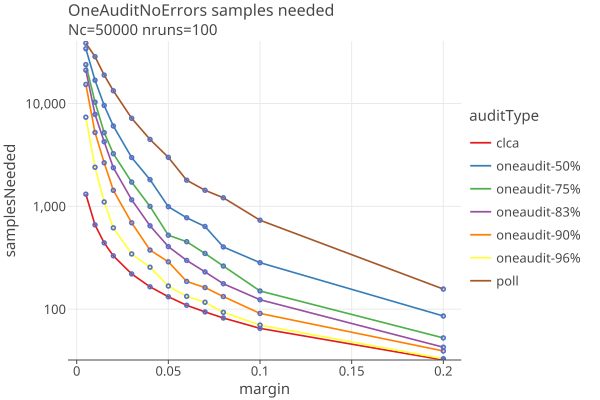
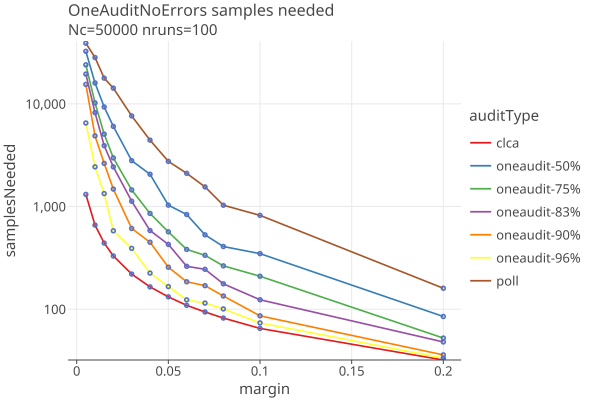
update OneAudit plots; modest improvement with new algorithms at low margins.

diff --git a/docs/plots2/oneaudit/OneAuditNoErrors/OneAuditNoErrorsLogLinear.html b/docs/plots2/oneaudit/OneAuditNoErrors/OneAuditNoErrorsLogLinear.html
@@ -5,7 +5,7 @@
        &lt;script type=&quot;text/javascript&quot; data-lets-plot-script=&quot;library&quot; src=&quot;https://cdn.jsdelivr.net/gh/JetBrains/lets-plot@v4.7.3/js-package/distr/lets-plot.min.js&quot;>&lt;/script>
    &lt;/head>
    &lt;body>
-          &lt;div id=&quot;JoNQFq&quot;>&lt;/div>
+          &lt;div id=&quot;CmcYuU&quot;>&lt;/div>
    &lt;script type=&quot;text/javascript&quot; data-lets-plot-script=&quot;plot&quot;>
    
    (function() {
@@ -30,7 +30,7 @@
        };
    }
    
-   const containerDiv = document.getElementById(&quot;JoNQFq&quot;);
+   const containerDiv = document.getElementById(&quot;CmcYuU&quot;);
    let fig = null;
    
    function renderPlot() {
@@ -74,7 +74,7 @@
 &quot;data&quot;:{
 &quot;&amp;merged_groups&quot;:[&quot;clca&quot;,&quot;clca&quot;,&quot;clca&quot;,&quot;clca&quot;,&quot;clca&quot;,&quot;clca&quot;,&quot;clca&quot;,&quot;clca&quot;,&quot;clca&quot;,&quot;clca&quot;,&quot;clca&quot;,&quot;clca&quot;,&quot;oneaudit-50%&quot;,&quot;oneaudit-50%&quot;,&quot;oneaudit-50%&quot;,&quot;oneaudit-50%&quot;,&quot;oneaudit-50%&quot;,&quot;oneaudit-50%&quot;,&quot;oneaudit-50%&quot;,&quot;oneaudit-50%&quot;,&quot;oneaudit-50%&quot;,&quot;oneaudit-50%&quot;,&quot;oneaudit-50%&quot;,&quot;oneaudit-50%&quot;,&quot;oneaudit-75%&quot;,&quot;oneaudit-75%&quot;,&quot;oneaudit-75%&quot;,&quot;oneaudit-75%&quot;,&quot;oneaudit-75%&quot;,&quot;oneaudit-75%&quot;,&quot;oneaudit-75%&quot;,&quot;oneaudit-75%&quot;,&quot;oneaudit-75%&quot;,&quot;oneaudit-75%&quot;,&quot;oneaudit-75%&quot;,&quot;oneaudit-75%&quot;,&quot;oneaudit-83%&quot;,&quot;oneaudit-83%&quot;,&quot;oneaudit-83%&quot;,&quot;oneaudit-83%&quot;,&quot;oneaudit-83%&quot;,&quot;oneaudit-83%&quot;,&quot;oneaudit-83%&quot;,&quot;oneaudit-83%&quot;,&quot;oneaudit-83%&quot;,&quot;oneaudit-83%&quot;,&quot;oneaudit-83%&quot;,&quot;oneaudit-83%&quot;,&quot;oneaudit-90%&quot;,&quot;oneaudit-90%&quot;,&quot;oneaudit-90%&quot;,&quot;oneaudit-90%&quot;,&quot;oneaudit-90%&quot;,&quot;oneaudit-90%&quot;,&quot;oneaudit-90%&quot;,&quot;oneaudit-90%&quot;,&quot;oneaudit-90%&quot;,&quot;oneaudit-90%&quot;,&quot;oneaudit-90%&quot;,&quot;oneaudit-90%&quot;,&quot;oneaudit-96%&quot;,&quot;oneaudit-96%&quot;,&quot;oneaudit-96%&quot;,&quot;oneaudit-96%&quot;,&quot;oneaudit-96%&quot;,&quot;oneaudit-96%&quot;,&quot;oneaudit-96%&quot;,&quot;oneaudit-96%&quot;,&quot;oneaudit-96%&quot;,&quot;oneaudit-96%&quot;,&quot;oneaudit-96%&quot;,&quot;oneaudit-96%&quot;,&quot;poll&quot;,&quot;poll&quot;,&quot;poll&quot;,&quot;poll&quot;,&quot;poll&quot;,&quot;poll&quot;,&quot;poll&quot;,&quot;poll&quot;,&quot;poll&quot;,&quot;poll&quot;,&quot;poll&quot;,&quot;poll&quot;],
 &quot;margin&quot;:[0.004999999999999893,0.010000000000000009,0.014999999999999902,0.020000000000000018,0.030000000000000027,0.040000000000000036,0.050000000000000044,0.06000000000000005,0.07000000000000006,0.08000000000000007,0.10000000000000009,0.19999999999999996,0.004999999999999893,0.010000000000000009,0.014999999999999902,0.020000000000000018,0.030000000000000027,0.040000000000000036,0.050000000000000044,0.06000000000000005,0.07000000000000006,0.08000000000000007,0.10000000000000009,0.19999999999999996,0.004999999999999893,0.010000000000000009,0.014999999999999902,0.020000000000000018,0.030000000000000027,0.040000000000000036,0.050000000000000044,0.06000000000000005,0.07000000000000006,0.08000000000000007,0.10000000000000009,0.19999999999999996,0.004999999999999893,0.010000000000000009,0.014999999999999902,0.020000000000000018,0.030000000000000027,0.040000000000000036,0.050000000000000044,0.06000000000000005,0.07000000000000006,0.08000000000000007,0.10000000000000009,0.19999999999999996,0.004999999999999893,0.010000000000000009,0.014999999999999902,0.020000000000000018,0.030000000000000027,0.040000000000000036,0.050000000000000044,0.06000000000000005,0.07000000000000006,0.08000000000000007,0.10000000000000009,0.19999999999999996,0.004999999999999893,0.010000000000000009,0.014999999999999902,0.020000000000000018,0.030000000000000027,0.040000000000000036,0.050000000000000044,0.06000000000000005,0.07000000000000006,0.08000000000000007,0.10000000000000009,0.19999999999999996,0.004999999999999893,0.010000000000000009,0.014999999999999902,0.020000000000000018,0.030000000000000027,0.040000000000000036,0.050000000000000044,0.06000000000000005,0.07000000000000006,0.08000000000000007,0.10000000000000009,0.19999999999999996],
-&quot;samplesNeeded&quot;:[1313.0,660.0,441.0,330.0,220.0,165.0,132.0,109.0,94.0,82.0,65.0,32.0,34153.409999999996,16853.339999999997,9580.760000000002,6046.659999999999,2983.34,1818.9099999999999,991.5800000000002,774.2399999999997,636.82,402.5900000000001,283.17999999999995,85.73999999999997,23927.87,10321.810000000005,5213.64,3252.549999999999,1721.0800000000004,998.0600000000002,523.6200000000002,452.8399999999999,347.94999999999993,262.58,150.22000000000006,52.49000000000002,21117.6,7842.080000000003,4249.920000000002,2376.0699999999993,1158.4099999999999,646.7399999999999,405.76000000000005,297.93000000000006,230.29000000000008,176.70000000000007,123.44999999999999,42.620000000000005,15343.169999999998,5231.610000000001,2652.85,1431.3199999999997,691.9599999999999,375.5799999999999,288.6600000000001,185.98999999999995,162.07999999999996,132.56999999999994,90.83999999999999,39.15999999999999,7361.719999999999,2399.749999999999,1103.9,617.9700000000001,344.1600000000001,255.64000000000001,167.76000000000005,133.21,116.64999999999996,93.05000000000004,69.97999999999998,32.919999999999995,38668.36,28586.670000000002,18921.59,13317.140000000001,7189.77,4478.400000000001,2995.660000000001,1796.07,1433.7000000000003,1211.7099999999996,732.7699999999999,156.77],
+&quot;samplesNeeded&quot;:[1313.0,660.0,441.0,330.0,220.0,165.0,132.0,109.0,94.0,82.0,65.0,32.0,32549.609999999986,15995.7,9338.890000000003,6039.900000000005,2801.140000000001,2064.5500000000006,1031.7200000000005,836.71,530.2699999999999,408.0,347.86999999999995,84.92,24026.020000000015,10242.429999999995,5073.289999999999,2978.8399999999992,1451.6199999999997,856.6999999999999,567.4399999999998,382.32,335.04999999999984,264.5000000000002,209.57000000000002,52.36,19530.429999999993,8216.22,3918.4399999999996,2434.1599999999994,1127.0399999999995,584.27,427.9700000000001,261.77,244.72000000000014,176.7999999999999,123.60999999999997,47.96999999999998,15488.85,4884.24,2634.3300000000004,1479.9999999999995,611.9700000000001,449.1499999999999,256.46999999999997,185.01000000000008,169.61,134.5100000000001,86.16000000000001,35.86999999999999,6514.659999999999,2436.8400000000006,1337.9100000000003,580.6799999999998,391.5199999999999,224.82999999999998,166.15999999999994,123.27999999999999,114.73,100.64000000000001,73.55999999999997,33.34000000000001,39055.42,28309.479999999996,17822.240000000013,14252.729999999996,7640.020000000002,4436.62,2756.3800000000006,2108.689999999999,1554.4399999999998,1030.6600000000003,820.85,159.98],
 &quot;auditType&quot;:[&quot;clca&quot;,&quot;clca&quot;,&quot;clca&quot;,&quot;clca&quot;,&quot;clca&quot;,&quot;clca&quot;,&quot;clca&quot;,&quot;clca&quot;,&quot;clca&quot;,&quot;clca&quot;,&quot;clca&quot;,&quot;clca&quot;,&quot;oneaudit-50%&quot;,&quot;oneaudit-50%&quot;,&quot;oneaudit-50%&quot;,&quot;oneaudit-50%&quot;,&quot;oneaudit-50%&quot;,&quot;oneaudit-50%&quot;,&quot;oneaudit-50%&quot;,&quot;oneaudit-50%&quot;,&quot;oneaudit-50%&quot;,&quot;oneaudit-50%&quot;,&quot;oneaudit-50%&quot;,&quot;oneaudit-50%&quot;,&quot;oneaudit-75%&quot;,&quot;oneaudit-75%&quot;,&quot;oneaudit-75%&quot;,&quot;oneaudit-75%&quot;,&quot;oneaudit-75%&quot;,&quot;oneaudit-75%&quot;,&quot;oneaudit-75%&quot;,&quot;oneaudit-75%&quot;,&quot;oneaudit-75%&quot;,&quot;oneaudit-75%&quot;,&quot;oneaudit-75%&quot;,&quot;oneaudit-75%&quot;,&quot;oneaudit-83%&quot;,&quot;oneaudit-83%&quot;,&quot;oneaudit-83%&quot;,&quot;oneaudit-83%&quot;,&quot;oneaudit-83%&quot;,&quot;oneaudit-83%&quot;,&quot;oneaudit-83%&quot;,&quot;oneaudit-83%&quot;,&quot;oneaudit-83%&quot;,&quot;oneaudit-83%&quot;,&quot;oneaudit-83%&quot;,&quot;oneaudit-83%&quot;,&quot;oneaudit-90%&quot;,&quot;oneaudit-90%&quot;,&quot;oneaudit-90%&quot;,&quot;oneaudit-90%&quot;,&quot;oneaudit-90%&quot;,&quot;oneaudit-90%&quot;,&quot;oneaudit-90%&quot;,&quot;oneaudit-90%&quot;,&quot;oneaudit-90%&quot;,&quot;oneaudit-90%&quot;,&quot;oneaudit-90%&quot;,&quot;oneaudit-90%&quot;,&quot;oneaudit-96%&quot;,&quot;oneaudit-96%&quot;,&quot;oneaudit-96%&quot;,&quot;oneaudit-96%&quot;,&quot;oneaudit-96%&quot;,&quot;oneaudit-96%&quot;,&quot;oneaudit-96%&quot;,&quot;oneaudit-96%&quot;,&quot;oneaudit-96%&quot;,&quot;oneaudit-96%&quot;,&quot;oneaudit-96%&quot;,&quot;oneaudit-96%&quot;,&quot;poll&quot;,&quot;poll&quot;,&quot;poll&quot;,&quot;poll&quot;,&quot;poll&quot;,&quot;poll&quot;,&quot;poll&quot;,&quot;poll&quot;,&quot;poll&quot;,&quot;poll&quot;,&quot;poll&quot;,&quot;poll&quot;]
 },
 &quot;sampling&quot;:&quot;none&quot;,
@@ -104,9 +104,9 @@
 },
 &quot;stat&quot;:&quot;identity&quot;,
 &quot;data&quot;:{
-&quot;margin&quot;:[0.004999999999999893,0.010000000000000009,0.014999999999999902,0.020000000000000018,0.030000000000000027,0.040000000000000036,0.050000000000000044,0.06000000000000005,0.07000000000000006,0.08000000000000007,0.10000000000000009,0.19999999999999996,0.004999999999999893,0.010000000000000009,0.014999999999999902,0.020000000000000018,0.030000000000000027,0.040000000000000036,0.050000000000000044,0.06000000000000005,0.07000000000000006,0.08000000000000007,0.10000000000000009,0.19999999999999996,0.004999999999999893,0.010000000000000009,0.014999999999999902,0.020000000000000018,0.030000000000000027,0.040000000000000036,0.050000000000000044,0.06000000000000005,0.07000000000000006,0.08000000000000007,0.10000000000000009,0.19999999999999996,0.004999999999999893,0.010000000000000009,0.014999999999999902,0.020000000000000018,0.030000000000000027,0.040000000000000036,0.050000000000000044,0.06000000000000005,0.07000000000000006,0.08000000000000007,0.10000000000000009,0.19999999999999996,0.004999999999999893,0.010000000000000009,0.014999999999999902,0.020000000000000018,0.030000000000000027,0.040000000000000036,0.050000000000000044,0.06000000000000005,0.07000000000000006,0.08000000000000007,0.10000000000000009,0.19999999999999996,0.004999999999999893,0.010000000000000009,0.014999999999999902,0.020000000000000018,0.030000000000000027,0.040000000000000036,0.050000000000000044,0.06000000000000005,0.07000000000000006,0.08000000000000007,0.10000000000000009,0.19999999999999996,0.004999999999999893,0.010000000000000009,0.014999999999999902,0.020000000000000018,0.030000000000000027,0.040000000000000036,0.050000000000000044,0.06000000000000005,0.07000000000000006,0.08000000000000007,0.10000000000000009,0.19999999999999996],
 &quot;&amp;merged_groups&quot;:[&quot;clca&quot;,&quot;clca&quot;,&quot;clca&quot;,&quot;clca&quot;,&quot;clca&quot;,&quot;clca&quot;,&quot;clca&quot;,&quot;clca&quot;,&quot;clca&quot;,&quot;clca&quot;,&quot;clca&quot;,&quot;clca&quot;,&quot;oneaudit-50%&quot;,&quot;oneaudit-50%&quot;,&quot;oneaudit-50%&quot;,&quot;oneaudit-50%&quot;,&quot;oneaudit-50%&quot;,&quot;oneaudit-50%&quot;,&quot;oneaudit-50%&quot;,&quot;oneaudit-50%&quot;,&quot;oneaudit-50%&quot;,&quot;oneaudit-50%&quot;,&quot;oneaudit-50%&quot;,&quot;oneaudit-50%&quot;,&quot;oneaudit-75%&quot;,&quot;oneaudit-75%&quot;,&quot;oneaudit-75%&quot;,&quot;oneaudit-75%&quot;,&quot;oneaudit-75%&quot;,&quot;oneaudit-75%&quot;,&quot;oneaudit-75%&quot;,&quot;oneaudit-75%&quot;,&quot;oneaudit-75%&quot;,&quot;oneaudit-75%&quot;,&quot;oneaudit-75%&quot;,&quot;oneaudit-75%&quot;,&quot;oneaudit-83%&quot;,&quot;oneaudit-83%&quot;,&quot;oneaudit-83%&quot;,&quot;oneaudit-83%&quot;,&quot;oneaudit-83%&quot;,&quot;oneaudit-83%&quot;,&quot;oneaudit-83%&quot;,&quot;oneaudit-83%&quot;,&quot;oneaudit-83%&quot;,&quot;oneaudit-83%&quot;,&quot;oneaudit-83%&quot;,&quot;oneaudit-83%&quot;,&quot;oneaudit-90%&quot;,&quot;oneaudit-90%&quot;,&quot;oneaudit-90%&quot;,&quot;oneaudit-90%&quot;,&quot;oneaudit-90%&quot;,&quot;oneaudit-90%&quot;,&quot;oneaudit-90%&quot;,&quot;oneaudit-90%&quot;,&quot;oneaudit-90%&quot;,&quot;oneaudit-90%&quot;,&quot;oneaudit-90%&quot;,&quot;oneaudit-90%&quot;,&quot;oneaudit-96%&quot;,&quot;oneaudit-96%&quot;,&quot;oneaudit-96%&quot;,&quot;oneaudit-96%&quot;,&quot;oneaudit-96%&quot;,&quot;oneaudit-96%&quot;,&quot;oneaudit-96%&quot;,&quot;oneaudit-96%&quot;,&quot;oneaudit-96%&quot;,&quot;oneaudit-96%&quot;,&quot;oneaudit-96%&quot;,&quot;oneaudit-96%&quot;,&quot;poll&quot;,&quot;poll&quot;,&quot;poll&quot;,&quot;poll&quot;,&quot;poll&quot;,&quot;poll&quot;,&quot;poll&quot;,&quot;poll&quot;,&quot;poll&quot;,&quot;poll&quot;,&quot;poll&quot;,&quot;poll&quot;],
-&quot;samplesNeeded&quot;:[1313.0,660.0,441.0,330.0,220.0,165.0,132.0,109.0,94.0,82.0,65.0,32.0,34153.409999999996,16853.339999999997,9580.760000000002,6046.659999999999,2983.34,1818.9099999999999,991.5800000000002,774.2399999999997,636.82,402.5900000000001,283.17999999999995,85.73999999999997,23927.87,10321.810000000005,5213.64,3252.549999999999,1721.0800000000004,998.0600000000002,523.6200000000002,452.8399999999999,347.94999999999993,262.58,150.22000000000006,52.49000000000002,21117.6,7842.080000000003,4249.920000000002,2376.0699999999993,1158.4099999999999,646.7399999999999,405.76000000000005,297.93000000000006,230.29000000000008,176.70000000000007,123.44999999999999,42.620000000000005,15343.169999999998,5231.610000000001,2652.85,1431.3199999999997,691.9599999999999,375.5799999999999,288.6600000000001,185.98999999999995,162.07999999999996,132.56999999999994,90.83999999999999,39.15999999999999,7361.719999999999,2399.749999999999,1103.9,617.9700000000001,344.1600000000001,255.64000000000001,167.76000000000005,133.21,116.64999999999996,93.05000000000004,69.97999999999998,32.919999999999995,38668.36,28586.670000000002,18921.59,13317.140000000001,7189.77,4478.400000000001,2995.660000000001,1796.07,1433.7000000000003,1211.7099999999996,732.7699999999999,156.77],
+&quot;margin&quot;:[0.004999999999999893,0.010000000000000009,0.014999999999999902,0.020000000000000018,0.030000000000000027,0.040000000000000036,0.050000000000000044,0.06000000000000005,0.07000000000000006,0.08000000000000007,0.10000000000000009,0.19999999999999996,0.004999999999999893,0.010000000000000009,0.014999999999999902,0.020000000000000018,0.030000000000000027,0.040000000000000036,0.050000000000000044,0.06000000000000005,0.07000000000000006,0.08000000000000007,0.10000000000000009,0.19999999999999996,0.004999999999999893,0.010000000000000009,0.014999999999999902,0.020000000000000018,0.030000000000000027,0.040000000000000036,0.050000000000000044,0.06000000000000005,0.07000000000000006,0.08000000000000007,0.10000000000000009,0.19999999999999996,0.004999999999999893,0.010000000000000009,0.014999999999999902,0.020000000000000018,0.030000000000000027,0.040000000000000036,0.050000000000000044,0.06000000000000005,0.07000000000000006,0.08000000000000007,0.10000000000000009,0.19999999999999996,0.004999999999999893,0.010000000000000009,0.014999999999999902,0.020000000000000018,0.030000000000000027,0.040000000000000036,0.050000000000000044,0.06000000000000005,0.07000000000000006,0.08000000000000007,0.10000000000000009,0.19999999999999996,0.004999999999999893,0.010000000000000009,0.014999999999999902,0.020000000000000018,0.030000000000000027,0.040000000000000036,0.050000000000000044,0.06000000000000005,0.07000000000000006,0.08000000000000007,0.10000000000000009,0.19999999999999996,0.004999999999999893,0.010000000000000009,0.014999999999999902,0.020000000000000018,0.030000000000000027,0.040000000000000036,0.050000000000000044,0.06000000000000005,0.07000000000000006,0.08000000000000007,0.10000000000000009,0.19999999999999996],
+&quot;samplesNeeded&quot;:[1313.0,660.0,441.0,330.0,220.0,165.0,132.0,109.0,94.0,82.0,65.0,32.0,32549.609999999986,15995.7,9338.890000000003,6039.900000000005,2801.140000000001,2064.5500000000006,1031.7200000000005,836.71,530.2699999999999,408.0,347.86999999999995,84.92,24026.020000000015,10242.429999999995,5073.289999999999,2978.8399999999992,1451.6199999999997,856.6999999999999,567.4399999999998,382.32,335.04999999999984,264.5000000000002,209.57000000000002,52.36,19530.429999999993,8216.22,3918.4399999999996,2434.1599999999994,1127.0399999999995,584.27,427.9700000000001,261.77,244.72000000000014,176.7999999999999,123.60999999999997,47.96999999999998,15488.85,4884.24,2634.3300000000004,1479.9999999999995,611.9700000000001,449.1499999999999,256.46999999999997,185.01000000000008,169.61,134.5100000000001,86.16000000000001,35.86999999999999,6514.659999999999,2436.8400000000006,1337.9100000000003,580.6799999999998,391.5199999999999,224.82999999999998,166.15999999999994,123.27999999999999,114.73,100.64000000000001,73.55999999999997,33.34000000000001,39055.42,28309.479999999996,17822.240000000013,14252.729999999996,7640.020000000002,4436.62,2756.3800000000006,2108.689999999999,1554.4399999999998,1030.6600000000003,820.85,159.98],
 &quot;auditType&quot;:[&quot;clca&quot;,&quot;clca&quot;,&quot;clca&quot;,&quot;clca&quot;,&quot;clca&quot;,&quot;clca&quot;,&quot;clca&quot;,&quot;clca&quot;,&quot;clca&quot;,&quot;clca&quot;,&quot;clca&quot;,&quot;clca&quot;,&quot;oneaudit-50%&quot;,&quot;oneaudit-50%&quot;,&quot;oneaudit-50%&quot;,&quot;oneaudit-50%&quot;,&quot;oneaudit-50%&quot;,&quot;oneaudit-50%&quot;,&quot;oneaudit-50%&quot;,&quot;oneaudit-50%&quot;,&quot;oneaudit-50%&quot;,&quot;oneaudit-50%&quot;,&quot;oneaudit-50%&quot;,&quot;oneaudit-50%&quot;,&quot;oneaudit-75%&quot;,&quot;oneaudit-75%&quot;,&quot;oneaudit-75%&quot;,&quot;oneaudit-75%&quot;,&quot;oneaudit-75%&quot;,&quot;oneaudit-75%&quot;,&quot;oneaudit-75%&quot;,&quot;oneaudit-75%&quot;,&quot;oneaudit-75%&quot;,&quot;oneaudit-75%&quot;,&quot;oneaudit-75%&quot;,&quot;oneaudit-75%&quot;,&quot;oneaudit-83%&quot;,&quot;oneaudit-83%&quot;,&quot;oneaudit-83%&quot;,&quot;oneaudit-83%&quot;,&quot;oneaudit-83%&quot;,&quot;oneaudit-83%&quot;,&quot;oneaudit-83%&quot;,&quot;oneaudit-83%&quot;,&quot;oneaudit-83%&quot;,&quot;oneaudit-83%&quot;,&quot;oneaudit-83%&quot;,&quot;oneaudit-83%&quot;,&quot;oneaudit-90%&quot;,&quot;oneaudit-90%&quot;,&quot;oneaudit-90%&quot;,&quot;oneaudit-90%&quot;,&quot;oneaudit-90%&quot;,&quot;oneaudit-90%&quot;,&quot;oneaudit-90%&quot;,&quot;oneaudit-90%&quot;,&quot;oneaudit-90%&quot;,&quot;oneaudit-90%&quot;,&quot;oneaudit-90%&quot;,&quot;oneaudit-90%&quot;,&quot;oneaudit-96%&quot;,&quot;oneaudit-96%&quot;,&quot;oneaudit-96%&quot;,&quot;oneaudit-96%&quot;,&quot;oneaudit-96%&quot;,&quot;oneaudit-96%&quot;,&quot;oneaudit-96%&quot;,&quot;oneaudit-96%&quot;,&quot;oneaudit-96%&quot;,&quot;oneaudit-96%&quot;,&quot;oneaudit-96%&quot;,&quot;oneaudit-96%&quot;,&quot;poll&quot;,&quot;poll&quot;,&quot;poll&quot;,&quot;poll&quot;,&quot;poll&quot;,&quot;poll&quot;,&quot;poll&quot;,&quot;poll&quot;,&quot;poll&quot;,&quot;poll&quot;,&quot;poll&quot;,&quot;poll&quot;]
 },
 &quot;size&quot;:1.0,
@@ -140,7 +140,7 @@
 &quot;disable_splitting&quot;:true
 }
 }],
-&quot;spec_id&quot;:&quot;6&quot;
+&quot;spec_id&quot;:&quot;3&quot;
 };
            fig = LetsPlot.buildPlotFromProcessedSpecs(plotSpec, containerDiv, sizing);
        } else {

diff --git a/docs/plots2/oneaudit/OneAuditWithFuzz/OneAuditWithFuzzLinear.html b/docs/plots2/oneaudit/OneAuditWithFuzz/OneAuditWithFuzzLinear.html
@@ -5,7 +5,7 @@
        &lt;script type=&quot;text/javascript&quot; data-lets-plot-script=&quot;library&quot; src=&quot;https://cdn.jsdelivr.net/gh/JetBrains/lets-plot@v4.7.3/js-package/distr/lets-plot.min.js&quot;>&lt;/script>
    &lt;/head>
    &lt;body>
-          &lt;div id=&quot;b5K46q&quot;>&lt;/div>
+          &lt;div id=&quot;9hPlIq&quot;>&lt;/div>
    &lt;script type=&quot;text/javascript&quot; data-lets-plot-script=&quot;plot&quot;>
    
    (function() {
@@ -30,7 +30,7 @@
        };
    }
    
-   const containerDiv = document.getElementById(&quot;b5K46q&quot;);
+   const containerDiv = document.getElementById(&quot;9hPlIq&quot;);
    let fig = null;
    
    function renderPlot() {
@@ -38,7 +38,7 @@
            const plotSpec = {
 &quot;ggtitle&quot;:{
 &quot;text&quot;:&quot;OneAuditWithFuzz samples needed&quot;,
-&quot;subtitle&quot;:&quot;Nc=50000 nruns=100 cvrPercent=90.0%&quot;
+&quot;subtitle&quot;:&quot;Nc=50000 nruns=200 cvrPercent=90.0%&quot;
 },
 &quot;mapping&quot;:{
 },
@@ -78,10 +78,10 @@
 &quot;stat&quot;:&quot;identity&quot;,
 &quot;data&quot;:{
 &quot;fuzzPct&quot;:[0.0,0.001,0.0025,0.005,0.0075,0.01,0.0,0.001,0.0025,0.005,0.0075,0.01,0.0,0.001,0.0025,0.005,0.0075,0.01],
-&quot;&amp;merged_groups&quot;:[&quot;0.01&quot;,&quot;0.01&quot;,&quot;0.01&quot;,&quot;0.01&quot;,&quot;0.01&quot;,&quot;0.01&quot;,&quot;0.02&quot;,&quot;0.02&quot;,&quot;0.02&quot;,&quot;0.02&quot;,&quot;0.02&quot;,&quot;0.02&quot;,&quot;0.04&quot;,&quot;0.04&quot;,&quot;0.04&quot;,&quot;0.04&quot;,&quot;0.04&quot;,&quot;0.04&quot;],
 &quot;margin&quot;:[&quot;0.01&quot;,&quot;0.01&quot;,&quot;0.01&quot;,&quot;0.01&quot;,&quot;0.01&quot;,&quot;0.01&quot;,&quot;0.02&quot;,&quot;0.02&quot;,&quot;0.02&quot;,&quot;0.02&quot;,&quot;0.02&quot;,&quot;0.02&quot;,&quot;0.04&quot;,&quot;0.04&quot;,&quot;0.04&quot;,&quot;0.04&quot;,&quot;0.04&quot;,&quot;0.04&quot;],
-&quot;ylowers&quot;:[1386.7240982556036,1641.2161114692085,1901.4307329644435,2120.6190102243745,2176.226736627307,2140.7950304933456,501.468759925267,370.1394039598115,258.36704693096794,298.2985323579512,453.1926629011625,239.79342753552783,61.25007569275209,93.18125075038608,139.35590682393052,106.05104302194962,100.12881252857989,62.7251101237581],
-&quot;yuppers&quot;:[8967.115901744393,8168.363888530794,10025.289267035554,9379.840989775625,11011.353263372694,12212.664969506655,2803.8312400747327,2471.3405960401897,2921.1929530690313,3194.101467642049,3130.0073370988375,3110.6865724644717,738.989924307248,661.6387492496143,705.4240931760696,875.4489569780508,892.9911874714196,1044.5748898762417]
+&quot;&amp;merged_groups&quot;:[&quot;0.01&quot;,&quot;0.01&quot;,&quot;0.01&quot;,&quot;0.01&quot;,&quot;0.01&quot;,&quot;0.01&quot;,&quot;0.02&quot;,&quot;0.02&quot;,&quot;0.02&quot;,&quot;0.02&quot;,&quot;0.02&quot;,&quot;0.02&quot;,&quot;0.04&quot;,&quot;0.04&quot;,&quot;0.04&quot;,&quot;0.04&quot;,&quot;0.04&quot;,&quot;0.04&quot;],
+&quot;ylowers&quot;:[1602.2078680885288,1860.8387815182123,2000.8768879587574,1702.099250427244,2415.916549778519,2930.936766120163,379.010943523674,451.646253074945,448.9755172431828,534.175875717111,632.1728129978551,572.253917188963,56.67669618025246,112.36670089433977,114.98163049996947,115.31707122034459,131.16579656636844,136.8513425503213],
+&quot;yuppers&quot;:[8026.56213191147,8569.311218481786,9486.433112041243,9708.26074957276,10735.313450221482,11618.693233879836,2421.6190564763265,2590.4037469250534,2987.6744827568177,2898.894124282889,3359.6871870021423,3641.09608281104,703.0833038197475,859.1632991056599,822.7383695000302,856.2429287796552,880.9142034336321,1036.1086574496776]
 },
 &quot;sampling&quot;:&quot;none&quot;,
 &quot;width&quot;:0.5,
@@ -119,9 +119,9 @@
 &quot;stat&quot;:&quot;identity&quot;,
 &quot;data&quot;:{
 &quot;fuzzPct&quot;:[0.0,0.001,0.0025,0.005,0.0075,0.01,0.0,0.001,0.0025,0.005,0.0075,0.01,0.0,0.001,0.0025,0.005,0.0075,0.01],
-&quot;&amp;merged_groups&quot;:[&quot;0.01&quot;,&quot;0.01&quot;,&quot;0.01&quot;,&quot;0.01&quot;,&quot;0.01&quot;,&quot;0.01&quot;,&quot;0.02&quot;,&quot;0.02&quot;,&quot;0.02&quot;,&quot;0.02&quot;,&quot;0.02&quot;,&quot;0.02&quot;,&quot;0.04&quot;,&quot;0.04&quot;,&quot;0.04&quot;,&quot;0.04&quot;,&quot;0.04&quot;,&quot;0.04&quot;],
 &quot;margin&quot;:[&quot;0.01&quot;,&quot;0.01&quot;,&quot;0.01&quot;,&quot;0.01&quot;,&quot;0.01&quot;,&quot;0.01&quot;,&quot;0.02&quot;,&quot;0.02&quot;,&quot;0.02&quot;,&quot;0.02&quot;,&quot;0.02&quot;,&quot;0.02&quot;,&quot;0.04&quot;,&quot;0.04&quot;,&quot;0.04&quot;,&quot;0.04&quot;,&quot;0.04&quot;,&quot;0.04&quot;],
-&quot;samplesNeeded&quot;:[5176.919999999998,4904.790000000001,5963.359999999999,5750.23,6593.79,7176.7300000000005,1652.6499999999999,1420.7400000000005,1589.7799999999997,1746.2000000000003,1791.6,1675.2399999999998,400.12000000000006,377.4100000000002,422.3900000000001,490.75000000000017,496.5599999999997,553.6499999999999]
+&quot;&amp;merged_groups&quot;:[&quot;0.01&quot;,&quot;0.01&quot;,&quot;0.01&quot;,&quot;0.01&quot;,&quot;0.01&quot;,&quot;0.01&quot;,&quot;0.02&quot;,&quot;0.02&quot;,&quot;0.02&quot;,&quot;0.02&quot;,&quot;0.02&quot;,&quot;0.02&quot;,&quot;0.04&quot;,&quot;0.04&quot;,&quot;0.04&quot;,&quot;0.04&quot;,&quot;0.04&quot;,&quot;0.04&quot;],
+&quot;samplesNeeded&quot;:[4814.384999999999,5215.074999999999,5743.655,5705.180000000002,6575.615000000001,7274.815,1400.3150000000003,1521.0249999999992,1718.3250000000003,1716.535,1995.9299999999987,2106.6750000000015,379.87999999999994,485.7649999999998,468.85999999999984,485.7799999999999,506.0400000000003,586.4799999999994]
 },
 &quot;sampling&quot;:&quot;none&quot;,
 &quot;inherit_aes&quot;:false,
@@ -157,9 +157,9 @@
 &quot;stat&quot;:&quot;identity&quot;,
 &quot;data&quot;:{
 &quot;fuzzPct&quot;:[0.0,0.001,0.0025,0.005,0.0075,0.01,0.0,0.001,0.0025,0.005,0.0075,0.01,0.0,0.001,0.0025,0.005,0.0075,0.01],
-&quot;margin&quot;:[&quot;0.01&quot;,&quot;0.01&quot;,&quot;0.01&quot;,&quot;0.01&quot;,&quot;0.01&quot;,&quot;0.01&quot;,&quot;0.02&quot;,&quot;0.02&quot;,&quot;0.02&quot;,&quot;0.02&quot;,&quot;0.02&quot;,&quot;0.02&quot;,&quot;0.04&quot;,&quot;0.04&quot;,&quot;0.04&quot;,&quot;0.04&quot;,&quot;0.04&quot;,&quot;0.04&quot;],
 &quot;&amp;merged_groups&quot;:[&quot;0.01&quot;,&quot;0.01&quot;,&quot;0.01&quot;,&quot;0.01&quot;,&quot;0.01&quot;,&quot;0.01&quot;,&quot;0.02&quot;,&quot;0.02&quot;,&quot;0.02&quot;,&quot;0.02&quot;,&quot;0.02&quot;,&quot;0.02&quot;,&quot;0.04&quot;,&quot;0.04&quot;,&quot;0.04&quot;,&quot;0.04&quot;,&quot;0.04&quot;,&quot;0.04&quot;],
-&quot;samplesNeeded&quot;:[5176.919999999998,4904.790000000001,5963.359999999999,5750.23,6593.79,7176.7300000000005,1652.6499999999999,1420.7400000000005,1589.7799999999997,1746.2000000000003,1791.6,1675.2399999999998,400.12000000000006,377.4100000000002,422.3900000000001,490.75000000000017,496.5599999999997,553.6499999999999]
+&quot;margin&quot;:[&quot;0.01&quot;,&quot;0.01&quot;,&quot;0.01&quot;,&quot;0.01&quot;,&quot;0.01&quot;,&quot;0.01&quot;,&quot;0.02&quot;,&quot;0.02&quot;,&quot;0.02&quot;,&quot;0.02&quot;,&quot;0.02&quot;,&quot;0.02&quot;,&quot;0.04&quot;,&quot;0.04&quot;,&quot;0.04&quot;,&quot;0.04&quot;,&quot;0.04&quot;,&quot;0.04&quot;],
+&quot;samplesNeeded&quot;:[4814.384999999999,5215.074999999999,5743.655,5705.180000000002,6575.615000000001,7274.815,1400.3150000000003,1521.0249999999992,1718.3250000000003,1716.535,1995.9299999999987,2106.6750000000015,379.87999999999994,485.7649999999998,468.85999999999984,485.7799999999999,506.0400000000003,586.4799999999994]
 },
 &quot;size&quot;:1.0,
 &quot;shape&quot;:1.0,

diff --git a/docs/plots2/oneaudit/OneAuditWithStdDev/OneAuditWithStdDevLinear.html b/docs/plots2/oneaudit/OneAuditWithStdDev/OneAuditWithStdDevLinear.html
@@ -5,7 +5,7 @@
        &lt;script type=&quot;text/javascript&quot; data-lets-plot-script=&quot;library&quot; src=&quot;https://cdn.jsdelivr.net/gh/JetBrains/lets-plot@v4.7.3/js-package/distr/lets-plot.min.js&quot;>&lt;/script>
    &lt;/head>
    &lt;body>
-          &lt;div id=&quot;HDqm2c&quot;>&lt;/div>
+          &lt;div id=&quot;wyeZbH&quot;>&lt;/div>
    &lt;script type=&quot;text/javascript&quot; data-lets-plot-script=&quot;plot&quot;>
    
    (function() {
@@ -30,7 +30,7 @@
        };
    }
    
-   const containerDiv = document.getElementById(&quot;HDqm2c&quot;);
+   const containerDiv = document.getElementById(&quot;wyeZbH&quot;);
    let fig = null;
    
    function renderPlot() {
@@ -77,11 +77,11 @@
 },
 &quot;stat&quot;:&quot;identity&quot;,
 &quot;data&quot;:{
-&quot;margin&quot;:[0.004999999999999893,0.010000000000000009,0.014999999999999902,0.020000000000000018,0.030000000000000027,0.040000000000000036,0.050000000000000044],
 &quot;&amp;merged_groups&quot;:[&quot;oneaudit-90%&quot;,&quot;oneaudit-90%&quot;,&quot;oneaudit-90%&quot;,&quot;oneaudit-90%&quot;,&quot;oneaudit-90%&quot;,&quot;oneaudit-90%&quot;,&quot;oneaudit-90%&quot;],
+&quot;margin&quot;:[0.004999999999999893,0.010000000000000009,0.014999999999999902,0.020000000000000018,0.030000000000000027,0.040000000000000036,0.050000000000000044],
 &quot;legend&quot;:[&quot;oneaudit-90%&quot;,&quot;oneaudit-90%&quot;,&quot;oneaudit-90%&quot;,&quot;oneaudit-90%&quot;,&quot;oneaudit-90%&quot;,&quot;oneaudit-90%&quot;,&quot;oneaudit-90%&quot;],
-&quot;ylowers&quot;:[7969.403774750345,1989.8327598106252,704.0800210229829,466.44520889214505,255.52066096547873,128.93723891434323,103.45821795430729],
-&quot;yuppers&quot;:[23015.216225249653,8142.607240189375,4652.139978977017,2520.734791107856,1228.3393390345216,598.6827610856568,396.3817820456927]
+&quot;ylowers&quot;:[7081.510935647297,1348.276123223914,626.3767295868261,464.25836548880477,164.29802512392985,99.97972512568816,53.884506268531595],
+&quot;yuppers&quot;:[21634.109064352702,9036.523876776086,4784.203270413174,2354.121634511196,1240.7219748760708,689.340274874312,562.8154937314685]
 },
 &quot;sampling&quot;:&quot;none&quot;,
 &quot;width&quot;:0.5,
@@ -120,8 +120,8 @@
 &quot;data&quot;:{
 &quot;&amp;merged_groups&quot;:[&quot;oneaudit-90%&quot;,&quot;oneaudit-90%&quot;,&quot;oneaudit-90%&quot;,&quot;oneaudit-90%&quot;,&quot;oneaudit-90%&quot;,&quot;oneaudit-90%&quot;,&quot;oneaudit-90%&quot;],
 &quot;margin&quot;:[0.004999999999999893,0.010000000000000009,0.014999999999999902,0.020000000000000018,0.030000000000000027,0.040000000000000036,0.050000000000000044],
-&quot;samplesNeeded&quot;:[15492.310000000001,5066.220000000001,2678.11,1493.5900000000006,741.9300000000003,363.81000000000006,249.92000000000002],
-&quot;legend&quot;:[&quot;oneaudit-90%&quot;,&quot;oneaudit-90%&quot;,&quot;oneaudit-90%&quot;,&quot;oneaudit-90%&quot;,&quot;oneaudit-90%&quot;,&quot;oneaudit-90%&quot;,&quot;oneaudit-90%&quot;]
+&quot;legend&quot;:[&quot;oneaudit-90%&quot;,&quot;oneaudit-90%&quot;,&quot;oneaudit-90%&quot;,&quot;oneaudit-90%&quot;,&quot;oneaudit-90%&quot;,&quot;oneaudit-90%&quot;,&quot;oneaudit-90%&quot;],
+&quot;samplesNeeded&quot;:[14357.810000000001,5192.400000000001,2705.290000000001,1409.1900000000007,702.5100000000004,394.6600000000001,308.3500000000001]
 },
 &quot;sampling&quot;:&quot;none&quot;,
 &quot;inherit_aes&quot;:false,
@@ -156,10 +156,10 @@
 },
 &quot;stat&quot;:&quot;identity&quot;,
 &quot;data&quot;:{
-&quot;&amp;merged_groups&quot;:[&quot;oneaudit-90%&quot;,&quot;oneaudit-90%&quot;,&quot;oneaudit-90%&quot;,&quot;oneaudit-90%&quot;,&quot;oneaudit-90%&quot;,&quot;oneaudit-90%&quot;,&quot;oneaudit-90%&quot;],
 &quot;margin&quot;:[0.004999999999999893,0.010000000000000009,0.014999999999999902,0.020000000000000018,0.030000000000000027,0.040000000000000036,0.050000000000000044],
-&quot;legend&quot;:[&quot;oneaudit-90%&quot;,&quot;oneaudit-90%&quot;,&quot;oneaudit-90%&quot;,&quot;oneaudit-90%&quot;,&quot;oneaudit-90%&quot;,&quot;oneaudit-90%&quot;,&quot;oneaudit-90%&quot;],
-&quot;samplesNeeded&quot;:[15492.310000000001,5066.220000000001,2678.11,1493.5900000000006,741.9300000000003,363.81000000000006,249.92000000000002]
+&quot;&amp;merged_groups&quot;:[&quot;oneaudit-90%&quot;,&quot;oneaudit-90%&quot;,&quot;oneaudit-90%&quot;,&quot;oneaudit-90%&quot;,&quot;oneaudit-90%&quot;,&quot;oneaudit-90%&quot;,&quot;oneaudit-90%&quot;],
+&quot;samplesNeeded&quot;:[14357.810000000001,5192.400000000001,2705.290000000001,1409.1900000000007,702.5100000000004,394.6600000000001,308.3500000000001],
+&quot;legend&quot;:[&quot;oneaudit-90%&quot;,&quot;oneaudit-90%&quot;,&quot;oneaudit-90%&quot;,&quot;oneaudit-90%&quot;,&quot;oneaudit-90%&quot;,&quot;oneaudit-90%&quot;,&quot;oneaudit-90%&quot;]
 },
 &quot;size&quot;:1.0,
 &quot;shape&quot;:1.0,

diff --git a/plots/src/test/kotlin/org/cryptobiotic/rlauxe/workflow/OneAuditWithErrors.kt b/plots/src/test/kotlin/org/cryptobiotic/rlauxe/workflow/OneAuditWithErrors.kt
@@ -14,7 +14,7 @@ class OneAuditWithErrors {
 
     @Test
     fun oneAuditsWithFuzz() {
-        val nruns = 100
+        val nruns = 200
         val name = "OneAuditWithFuzz"
         val dirName = "$testdataDir/plots/oneaudit/$name"
 

diff --git a/README.md b/README.md
@@ -1,7 +1,7 @@
 **rlauxe ("r-lux")**
 
 WORK IN PROGRESS
-_last changed: 01/18/2026_
+_last changed: 01/27/2026_
 
 A library for [Risk Limiting Audits](https://en.wikipedia.org/wiki/Risk-limiting_audit) (RLA), based on Philip Stark's SHANGRLA framework and related code.
 The Rlauxe library is an independent implementation of the SHANGRLA framework, based on the
@@ -429,15 +429,17 @@ on the various percentages the contests appear on the same ballot.
 
 ### Deterministic sampling order for each Contest
 
-For any given contest, the sequence of ballots/CVRS to be used by that contest is fixed when the PRNG is chosen.
+For any given contest, the sequence of ballots/CVRS to be used by that contest is fixed when the PRNG is chosen. This 
+is called the _canonical sequence_ for that contest.
 
-In a multi-contest audit, at each round, the estimate n of the number of ballots needed for each contest is calculated, 
-and the first n ballots in the contest's sequence are sampled.
-The total set of ballots sampled in a round is just the union of the individual contests' set. 
-The extra efficiency of a multi-contest audit comes when the same ballot is chosen for more than one contest.
+In a multi-contest audit, at each round, the estimate sample size (n) of the number of cards needed for each contest is calculated, 
+and the first n cards in the contest's sequence are sampled.
+The total set of cards sampled in a round is just the union of the individual contests' set. 
+The extra efficiency of a multi-contest audit comes when the same card is chosen for more than one contest.
 
-The set of contests that will continue to the next round is not known, so the set of ballots sampled at each round is 
-not known in advance. Nonetheless, for each contest, the sequence of ballots seen by the algorithm is fixed when the PRNG is chosen.
+It may happen that after a contest's estimated sample size has been satisfied, further cards are chosen because they contain a contest whose sample size has not been satisfied. Those extra cards can be used in the audit for a contest as long as the audit sees the canonical sequence. If a card that contains the contest is not used in the sample, the canonical sequence is broken and any further cards that contain the contest are not used in the audit. This ensures that the audit only uses the canonical sequence for each contest, which ensures that the sample is random.
+
+The set of contests that will continue to the next round is not known, so the set of ballots sampled at each round is not known in advance. Nonetheless, for each contest, and for each round, the sequence of ballots seen by the audit is fixed when the PRNG is chosen.
 
 # Attacks
 
